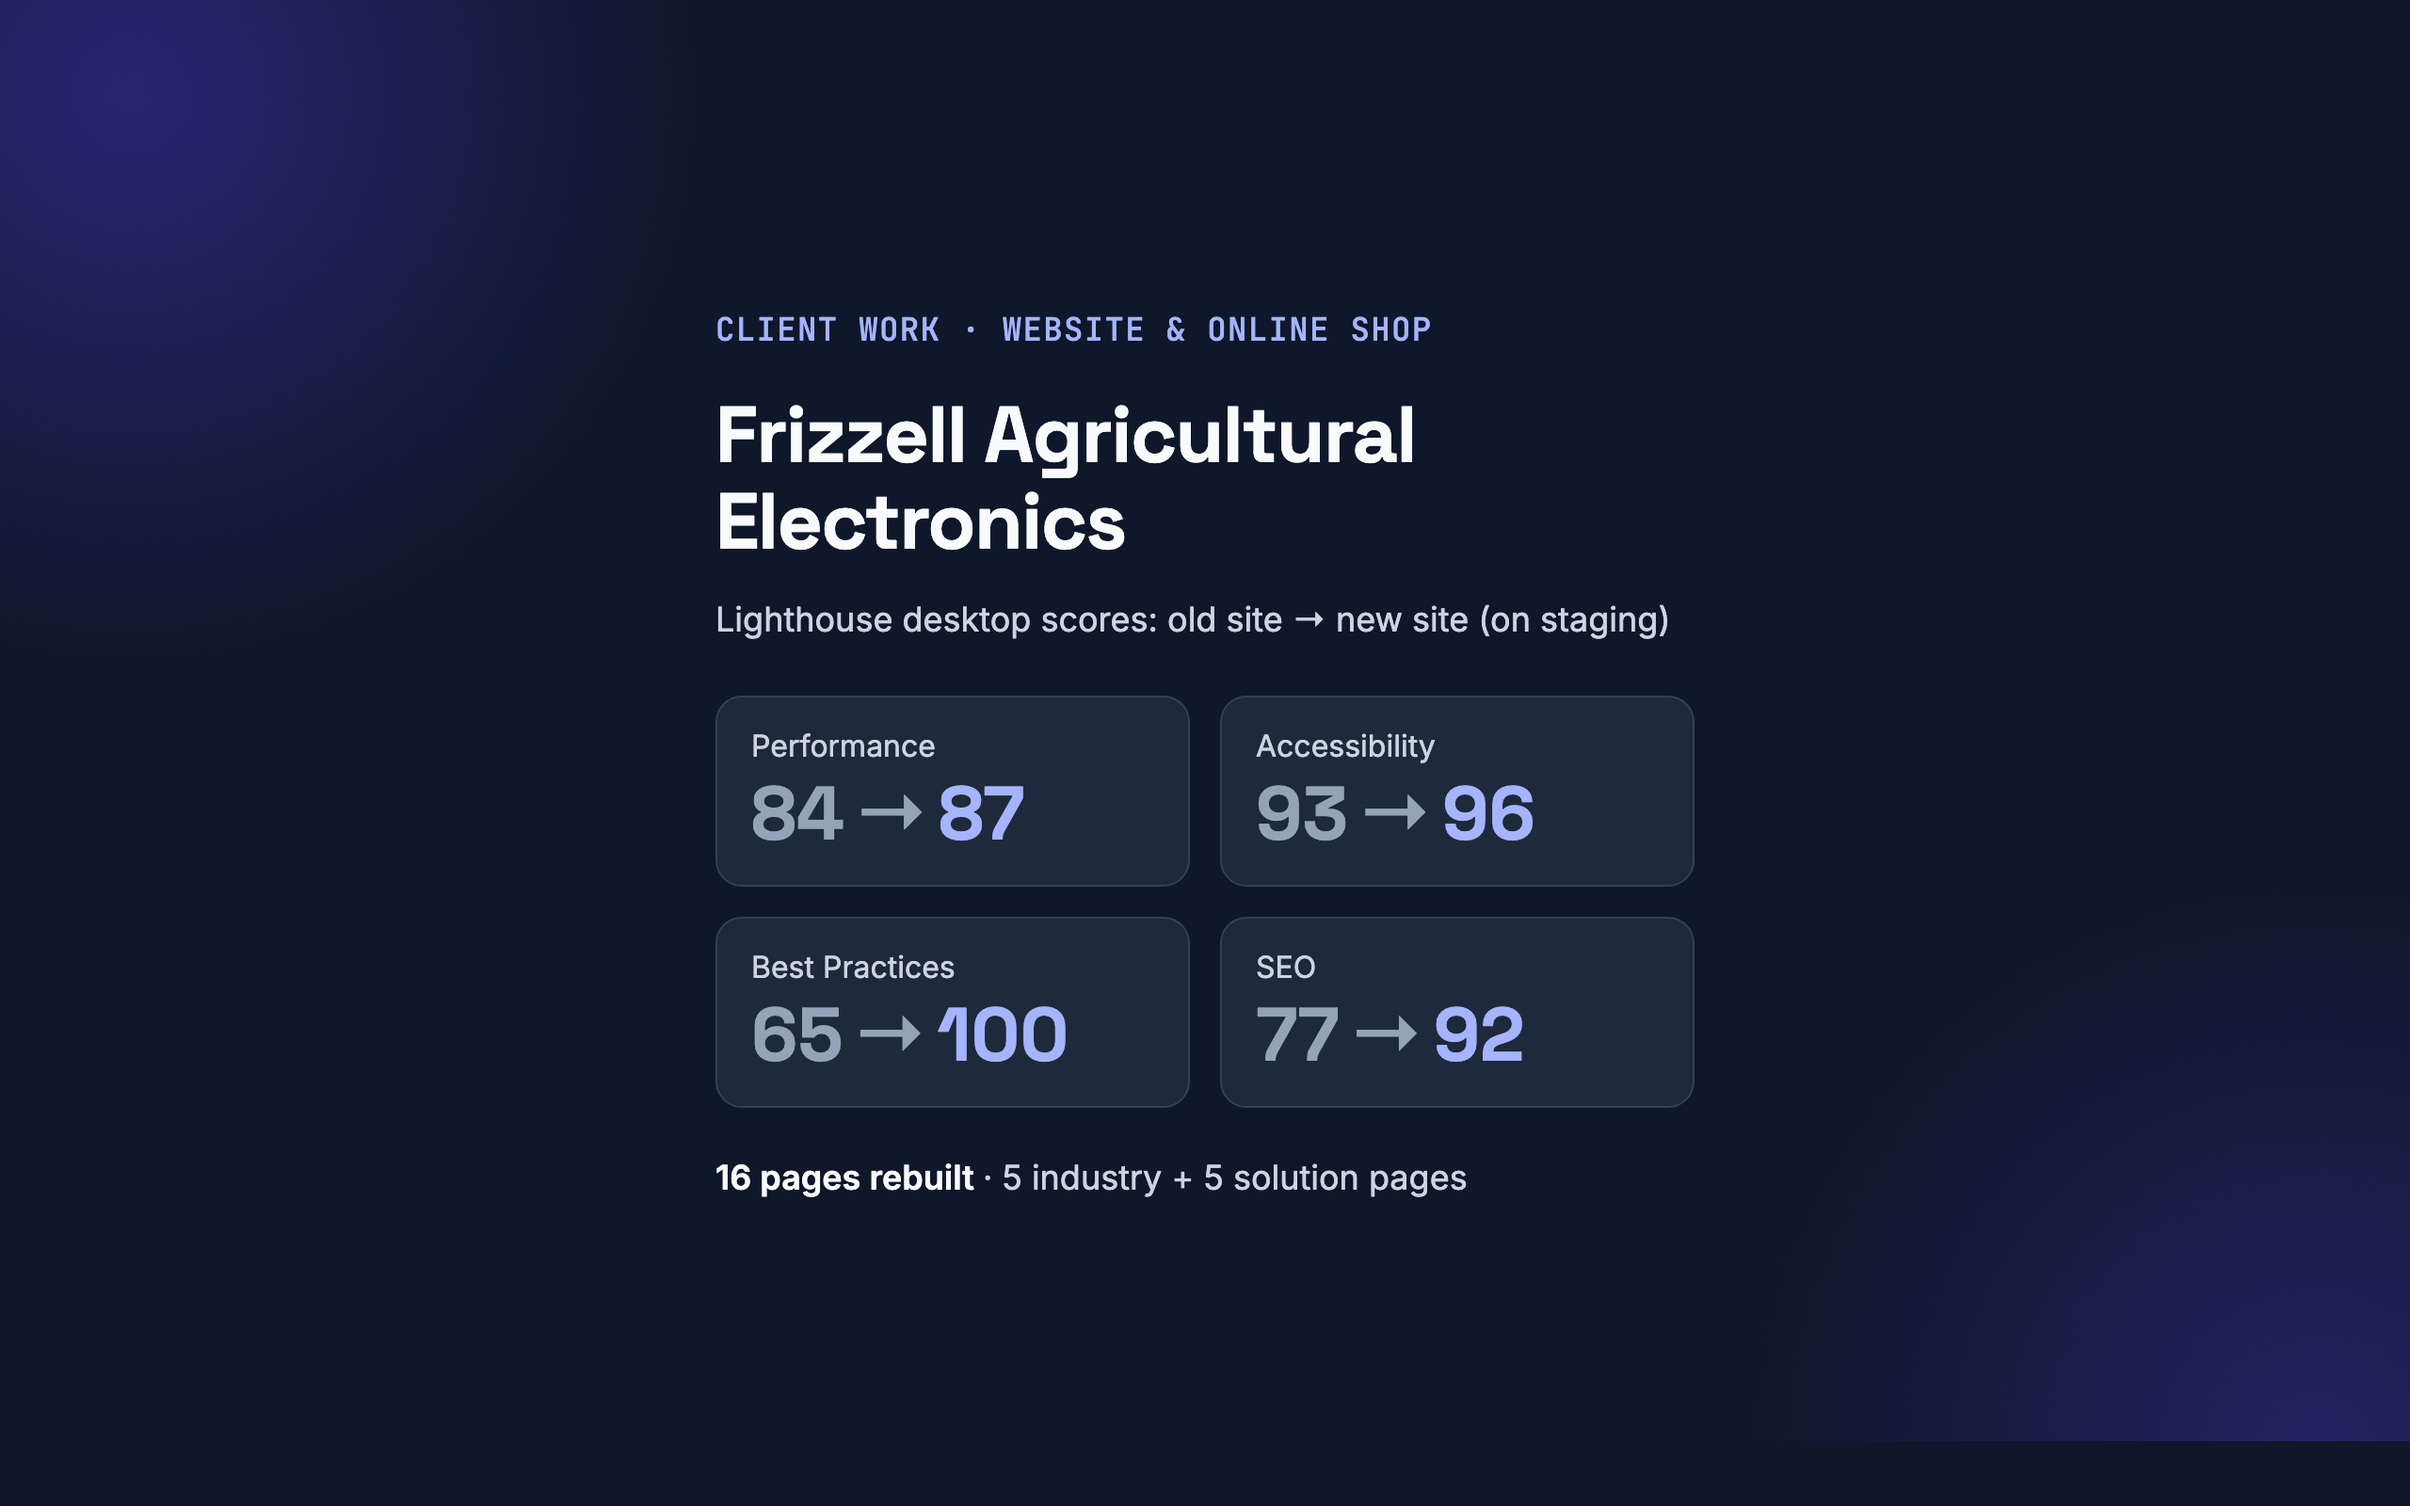
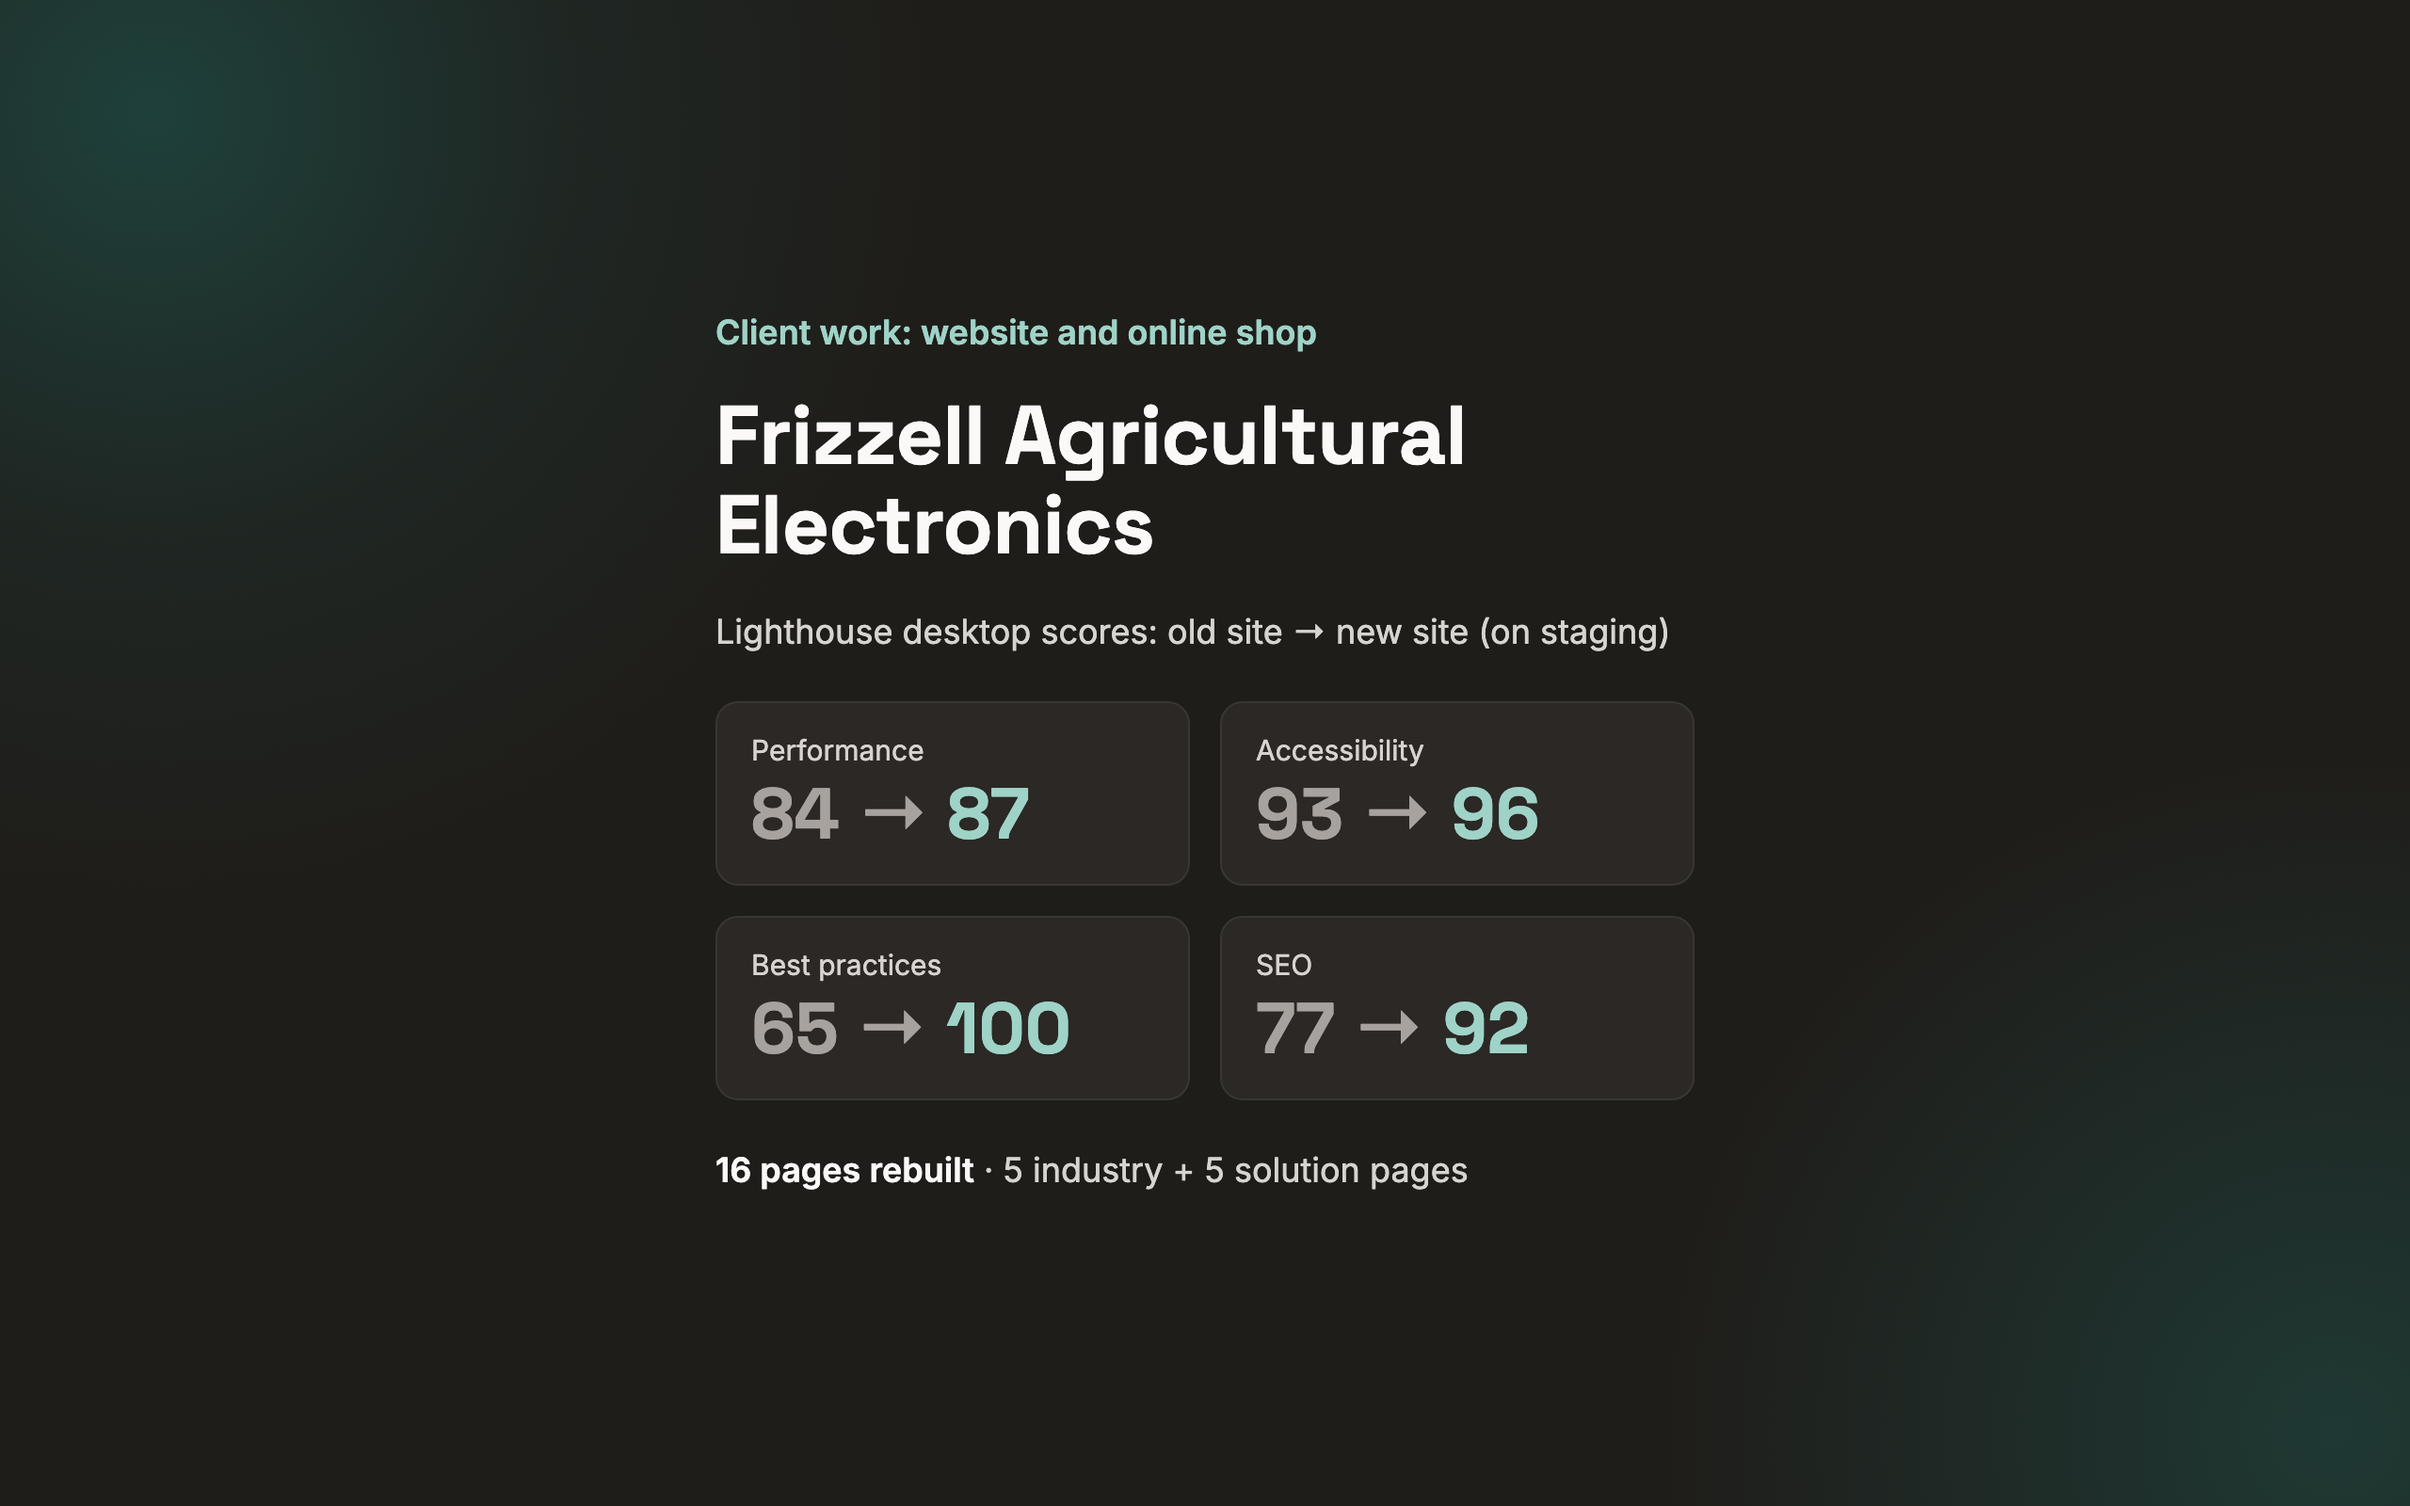
Warm up the visual style: stone neutrals, green accent, photo in hero
The site felt cold (blue-slate greys, indigo, uppercase monospace labels,
no person on the first screen). Layout is unchanged.

- Tokens: slate -> warm stone greys; indigo -> deep river green (#1E6B63).
  All text pairs pass WCAG AA (lowest 5.7:1)
- Hero: round face crop of the profile photo with "Hi, I'm Chris" and the
  open-to-work status; headline is one colour
- Section labels: sentence case Inter instead of uppercase JetBrains Mono;
  drop the now-unused mono font import
- Contact: lighter outline-button border (2.2:1 -> 6.7:1)
- Recolour the Frizzell cover graphic, OG share image and favicon to match
- CLAUDE.md §4: update tokens and label rule to the new palette

diff --git a/src/styles/global.css b/src/styles/global.css
@@ -1,33 +1,33 @@
 @import "tailwindcss";
 
 /*
-  Design tokens (CLAUDE.md §4).
+  Design tokens (CLAUDE.md §4). Warm stone neutrals + a deep river-green accent.
   In Tailwind v4 the @theme block creates utility classes automatically,
   e.g. --color-ink  →  bg-ink, text-ink, border-ink.
 */
 @theme {
-  --color-ink: #0f172a;
-  --color-body: #334155;
-  --color-muted: #475569;
-  --color-line: #e2e8f0;
-  --color-line-strong: #cbd5e1;
-  --color-surface: #f8fafc;
-  --color-band: #f1f5f9;
-  --color-accent: #4338ca;
-  --color-accent-dark: #312e81;
-  --color-accent-soft: #eef2ff;
+  --color-ink: #1f1d1a;
+  --color-body: #44403c;
+  --color-muted: #57534e;
+  --color-line: #e7e3de;
+  --color-line-strong: #d6d0c8;
+  --color-surface: #faf9f7;
+  --color-band: #f5f3f0;
+  --color-accent: #1e6b63;
+  --color-accent-dark: #134a44;
+  --color-accent-soft: #e6f2ef;
   --color-success: #15803d;
-  --color-on-dark: #f8fafc;
-  --color-on-dark-muted: #cbd5e1;
-  --color-on-dark-accent: #a5b4fc;
-  --color-footer-text: #94a3b8;
-  --color-footer-line: #1e293b;
+  --color-on-dark: #faf9f7;
+  --color-on-dark-muted: #d6d3d1;
+  --color-on-dark-accent: #9fd3c7;
+  --color-footer-text: #a8a29e;
+  --color-footer-line: #36322e;
 
   --font-sans: "Inter", system-ui, sans-serif;
   --font-heading: "Space Grotesk", system-ui, sans-serif;
   --font-mono: "JetBrains Mono", ui-monospace, monospace;
 
-  --shadow-widget: 0 12px 40px rgba(15, 23, 42, 0.08);
+  --shadow-widget: 0 12px 40px rgba(31, 29, 26, 0.08);
 }
 
 @layer base {

diff --git a/src/components/chat/Chat.tsx b/src/components/chat/Chat.tsx
@@ -144,7 +144,7 @@ export default function Chat() {
         ref={listRef}
         aria-live="polite"
         aria-busy={phase !== 'idle'}
-        className="flex max-h-[420px] min-h-[260px] flex-col gap-3.5 overflow-y-auto bg-[#fcfcfd] px-[22px] py-6"
+        className="flex max-h-[420px] min-h-[260px] flex-col gap-3.5 overflow-y-auto bg-surface px-[22px] py-6"
       >
         {messages.map(({ id, ...message }) => (
           <MessageBubble key={id} {...message} />

diff --git a/CLAUDE.md b/CLAUDE.md
@@ -32,7 +32,7 @@ Chris prefers a structured, step-by-step workflow:
 | Styling | **Tailwind CSS** | Design tokens from §4 in the Tailwind theme. |
 | Interactive UI | **React**, via `@astrojs/react` | **Only** for the chat widget. Everything else is plain `.astro` components with zero client JS. |
 | Content | Astro **content collections** (Markdown) | Case studies in Markdown + typed frontmatter (§6). |
-| Fonts | **Fontsource** (self-hosted) | `@fontsource/inter` (400/500/600), `@fontsource/space-grotesk` (500/600/700), `@fontsource/jetbrains-mono` (500). No Google Fonts requests. |
+| Fonts | **Fontsource** (self-hosted) | `@fontsource/inter` (400/500/600), `@fontsource/space-grotesk` (500/600/700). No Google Fonts requests. (JetBrains Mono is installed but no longer imported.) |
 | Images | `astro:assets` `<Image />` | Auto-optimised (WebP/AVIF, sizes). |
 | SEO | `@astrojs/sitemap` | Plus per-page meta + Open Graph (§9). |
 | Hosting | **Cloudflare** (Workers static assets) | Deploy from GitHub; follow Cloudflare's Astro guide. |
@@ -73,30 +73,32 @@ Node 20+. Use npm.
 
 ### Colours
 
+Warm stone neutrals + a deep river-green accent (changed from slate + indigo in Nov 2026 so the site feels less cold).
+
 | Token | Hex | Use |
 |---|---|---|
-| `ink` | `#0F172A` | Headings, dark buttons, dark sections |
-| `body` | `#334155` | Body text |
-| `muted` | `#475569` | Secondary text, labels, placeholders |
-| `line` | `#E2E8F0` | Borders, image placeholders |
-| `line-strong` | `#CBD5E1` | Input borders, chip borders |
-| `surface` | `#F8FAFC` | Quick-facts card, decision cards |
-| `band` | `#F1F5F9` | Work section background, tags |
-| `accent` | `#4338CA` | Primary buttons, accent text, links |
-| `accent-dark` | `#312E81` | Link hover, pill text |
-| `accent-soft` | `#EEF2FF` | Status pill, featured tag |
+| `ink` | `#1F1D1A` | Headings, dark buttons, dark sections |
+| `body` | `#44403C` | Body text |
+| `muted` | `#57534E` | Secondary text, labels, placeholders |
+| `line` | `#E7E3DE` | Borders, image placeholders |
+| `line-strong` | `#D6D0C8` | Input borders, chip borders |
+| `surface` | `#FAF9F7` | Quick-facts card, decision cards |
+| `band` | `#F5F3F0` | Work section background, tags |
+| `accent` | `#1E6B63` | Primary buttons, accent text, links |
+| `accent-dark` | `#134A44` | Link hover, pill text |
+| `accent-soft` | `#E6F2EF` | Status pill, featured tag |
 | `success` | `#15803D` | "Open to work" / "Online" dot |
-| `on-dark` | `#F8FAFC` | Text on dark |
-| `on-dark-muted` | `#CBD5E1` | Secondary text on dark |
-| `on-dark-accent` | `#A5B4FC` | Labels on dark |
-| `footer-text` | `#94A3B8` | Footer text |
-| `footer-line` | `#1E293B` | Footer top border |
+| `on-dark` | `#FAF9F7` | Text on dark |
+| `on-dark-muted` | `#D6D3D1` | Secondary text on dark |
+| `on-dark-accent` | `#9FD3C7` | Labels on dark |
+| `footer-text` | `#A8A29E` | Footer text |
+| `footer-line` | `#36322E` | Footer top border |
 
 All text must meet WCAG AA contrast (4.5:1; 3:1 for ≥24px). The pairs above already pass — don't introduce lighter greys.
 
 ### Typography
 
-- **Headings:** Space Grotesk. **Body:** Inter. **Small labels:** JetBrains Mono, 13px, uppercase, `letter-spacing: 0.04em`.
+- **Headings:** Space Grotesk. **Body:** Inter. **Section labels:** Inter 15px semibold, sentence case, in `accent` (no uppercase or monospace — it read as cold/techy).
 - Base body: 17px / line-height 1.6 (case study prose 1.65).
 - H1 hero: 60px, line-height 1.05, `-0.02em`, weight 700. Case study H1: 56px.
 - H2 sections: 40px / 1.15, `-0.01em`. Contact H2: 48px. Case study H2: 32px.
@@ -121,7 +123,7 @@ All text must meet WCAG AA contrast (4.5:1; 3:1 for ≥24px). The pairs above al
 `design-reference/home.dc.html` and `design-reference/case-study-frizzell.dc.html` are exports from the approved design canvas. **Use them as the source of truth for layout, spacing and copy.**
 
 They are in a design-tool format, so translate — don't copy the runtime:
-- `{{accent}}` → the `accent` colour `#4338CA`.
+- `{{accent}}` → the `accent` colour (`#1E6B63` since the Nov 2026 warm-up; the reference files still show the old indigo/slate palette — the tokens here win).
 - `<x-dc>`, `<helmet>`, `<sc-for>`, `<sc-if>`, `<script type="text/x-dc">`, `support.js` → design-tool syntax. Ignore; rebuild as Astro components + Tailwind.
 - Inline `style="…"` values → Tailwind classes / theme tokens.
 - Grey boxes with `[Screenshot …]` / `[Your photo]` → image slots waiting for real assets (§8).
